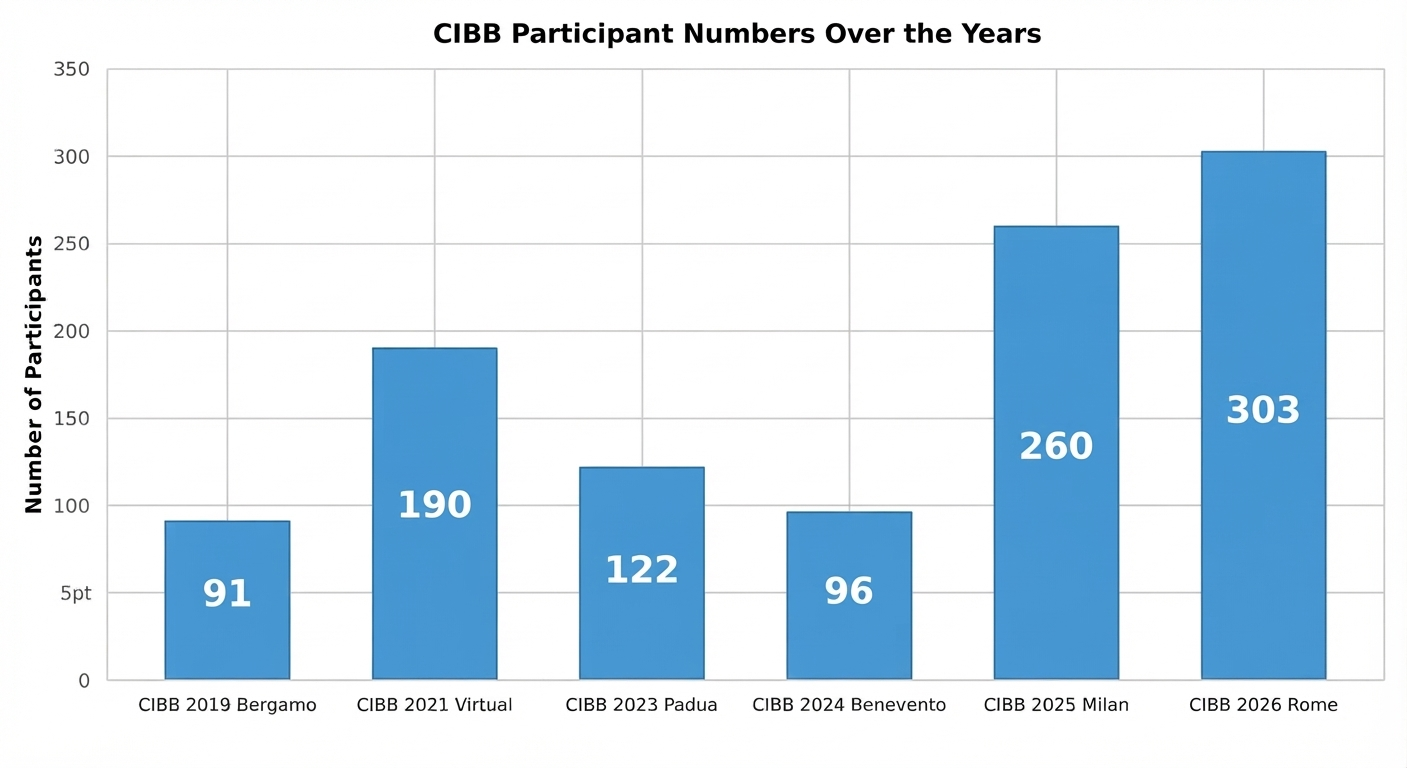
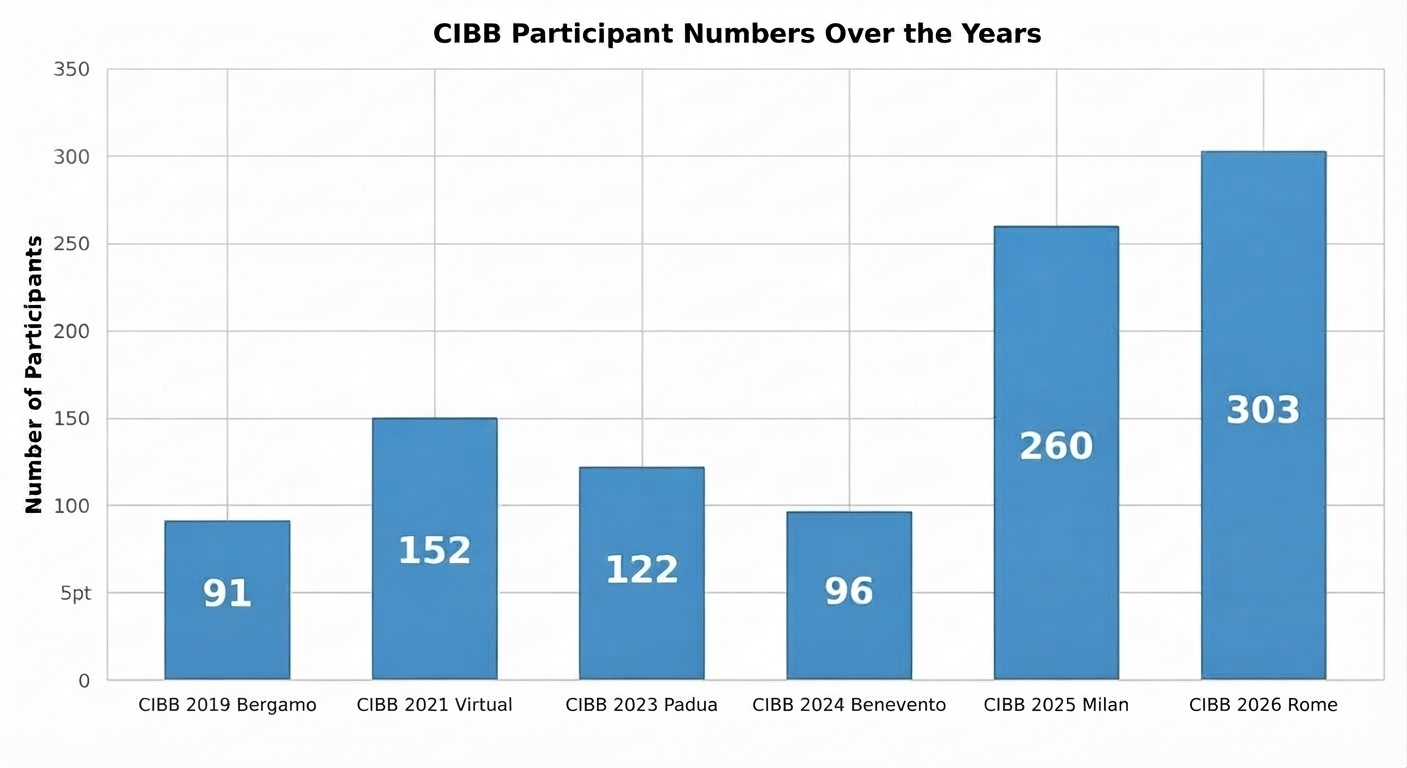
edited

diff --git a/index.html b/index.html
@@ -117,7 +117,7 @@ The CIBB conferences support the principles of open science by encouraging artic
   <img src="participation_numbers_barchart_v2.jpeg" width="600" align="right" hspace="20" vspace="20">
 </br>
 </p>
-  <img src="participation_women_barchart_v2.jpeg" width="600" align="right" hspace="20" vspace="20">
+  <img src="participation_women_barchart_v2.png" width="600" align="right" hspace="20" vspace="20">
 </div>
 
 <b>Participation numbers</b>
@@ -126,7 +126,7 @@ CIBB 2026 Rome: 303 participants (44.55% women) </br>
 CIBB 2025 Milan: 260 participants (42% women) </br>
 CIBB 2024 Benevento: 96 participants (36.5% women) </br>
 CIBB 2023 Padua: 122 participants (43% women) </br>
-CIBB 2021 Virtual edition: 190 online attendees (percentage of women unavailable)  </br>
+CIBB 2021 Virtual edition: 152 online attendees (percentage of women unavailable)  </br>
 CIBB 2019 Bergamo: 91 participants (33% women)
 </br>
 </p>
